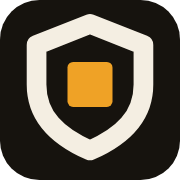
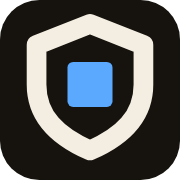
brand: sky blue accent (#5AA9FF, #2B6CB0 on light)

Changed region(s): [[0.3611, 0.3333, 0.6389, 0.6111]]

diff --git a/assets/brand/README.md b/assets/brand/README.md
@@ -8,7 +8,7 @@
 | File | Use |
 | --- | --- |
 | `mark.svg` | the mark on dark backgrounds |
-| `mark-on-light.svg` | the mark on light backgrounds (darker amber for contrast) |
+| `mark-on-light.svg` | the mark on light backgrounds (darker blue for contrast) |
 | `mark-mono.svg` | one colour, follows CSS `color` (`currentColor`); stamps, print, dark-on-anything |
 | `logo-full.svg`, `logo-full-on-light.svg` | mark and the wordmark "skigard" (README header, site) |
 | `favicon.svg`, `favicon.ico`, `favicon-32.png`, `apple-touch-icon.png` (180), `icon-512.png` | small sizes; heavier strokes than the mark so it holds at 16 px |
@@ -20,13 +20,15 @@ converted to outlines (the font is SIL OFL, which allows this). The rasters are 
 
 ## Palette
 
+The accent is sky blue (changed from amber, which the Ambier company site keeps). It lives in one place per file; change `#5AA9FF` / `#2B6CB0` in the SVGs and re-render the rasters to move it.
+
 | Role | Hex |
 | --- | --- |
 | Background | `#16130E` |
 | Foreground | `#F4EEE2` |
 | Dim text | `#B7A98C` |
-| Accent (amber, the "byte") | `#EFA226` |
-| Accent on light backgrounds | `#D4880E` |
+| Accent (sky blue, the "byte") | `#5AA9FF` |
+| Accent on light backgrounds | `#2B6CB0` |
 
 ## Fonts
 
@@ -37,13 +39,13 @@ Both are SIL OFL. Self-host them; never load them from Google Fonts.
 
 ## Usage
 
-- **Clear space:** keep at least the height of the amber square (about 1/6 of the mark height) free on every side.
+- **Clear space:** keep at least the height of the accent square (about 1/6 of the mark height) free on every side.
 - **Minimum size:** `mark*.svg` 24 px high, `logo-full*.svg` 24 px high. Below that use `favicon.svg`.
 - Dark backgrounds get `mark.svg`/`logo-full.svg`; light ones get the `-on-light` files. In READMEs use
   `<picture>` with `prefers-color-scheme`.
 
 Do:
-- Keep the amber square the only amber element.
+- Keep the square the only accent-coloured element.
 - Use the files as they are.
 
 Don't:
